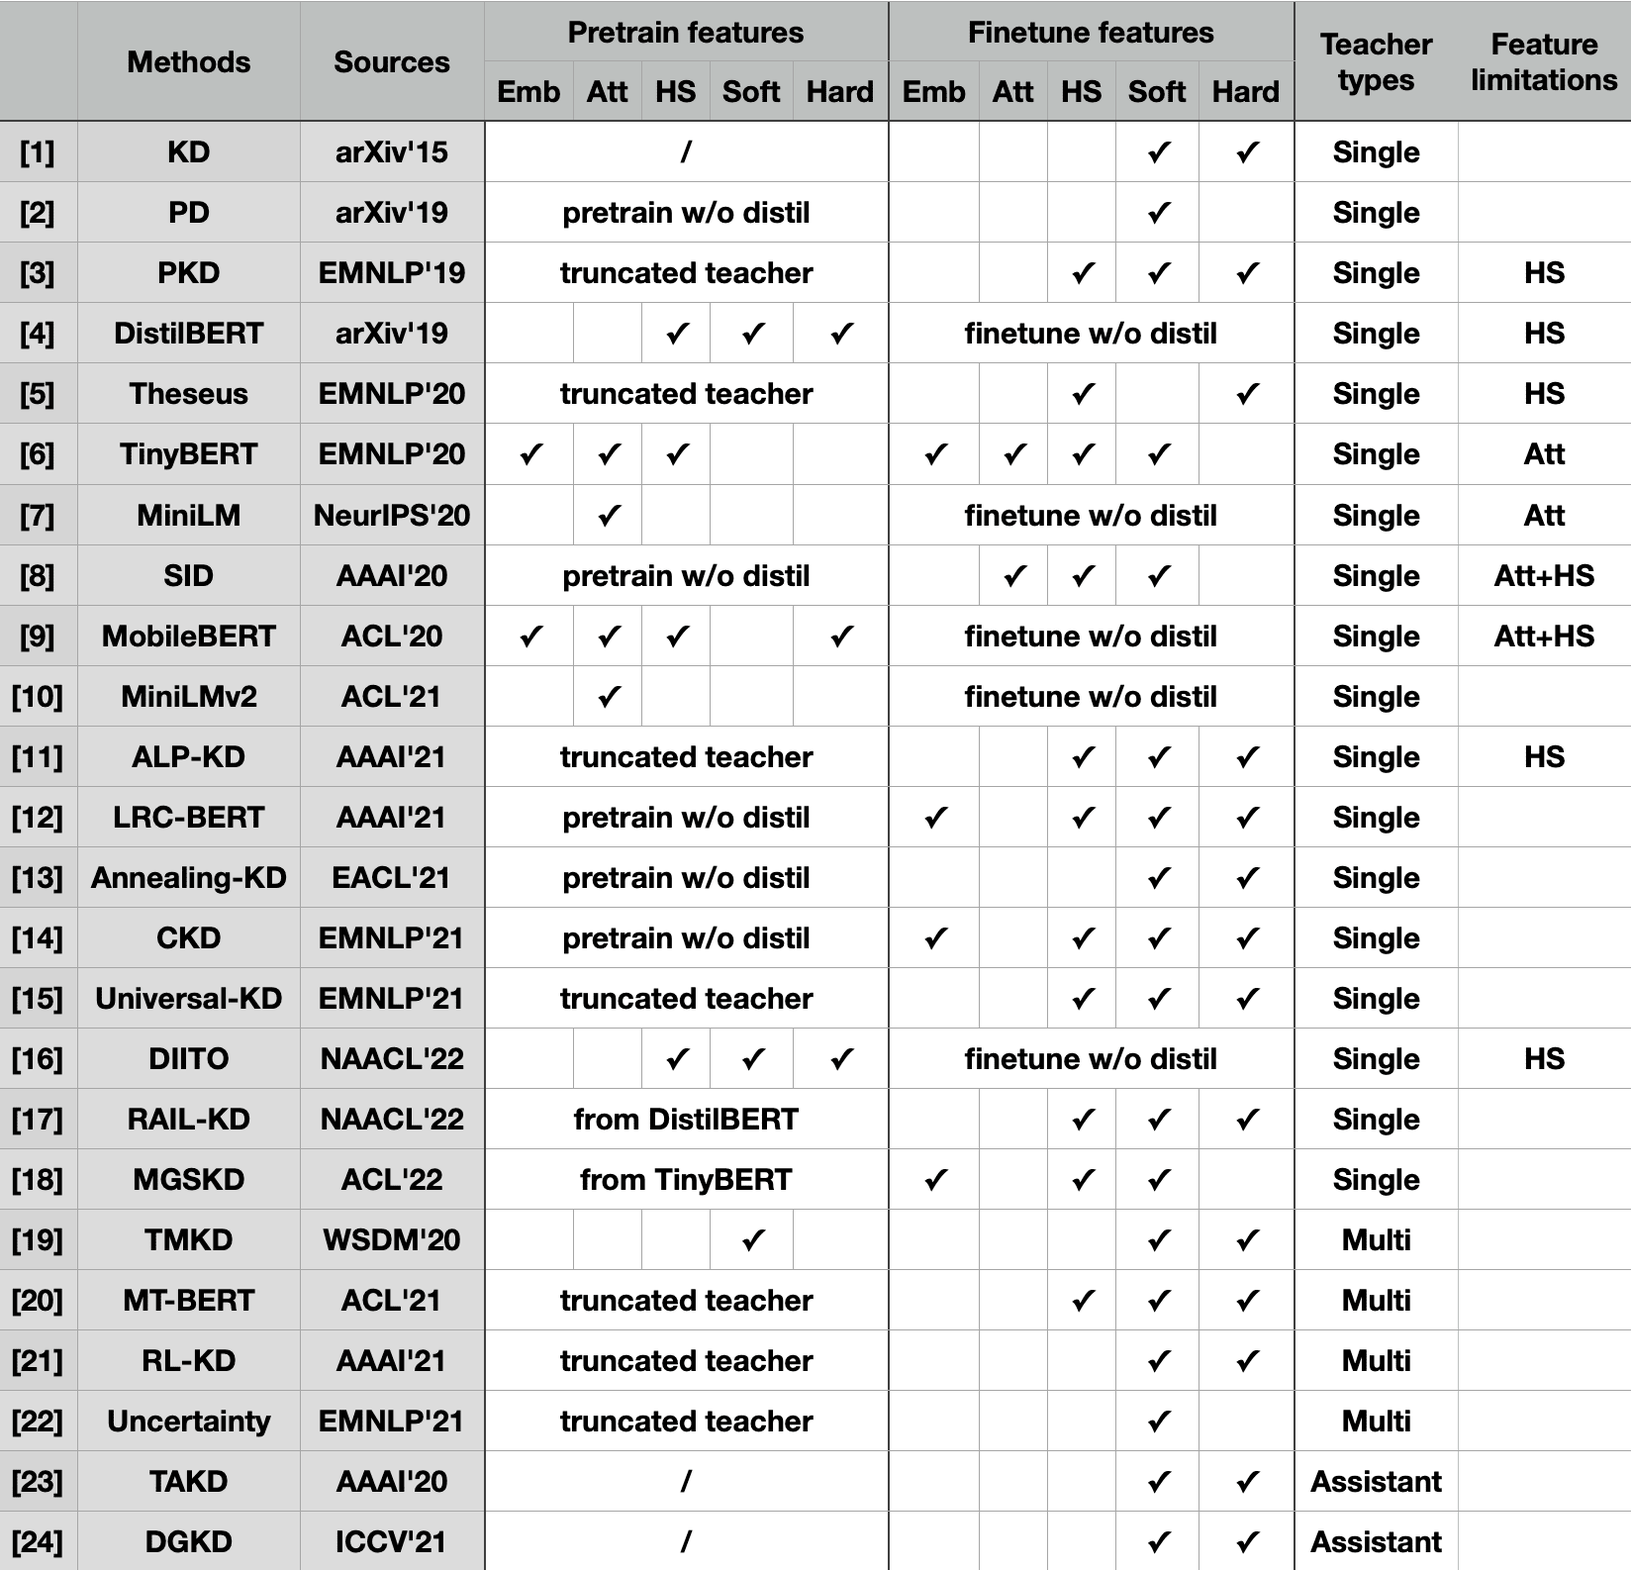
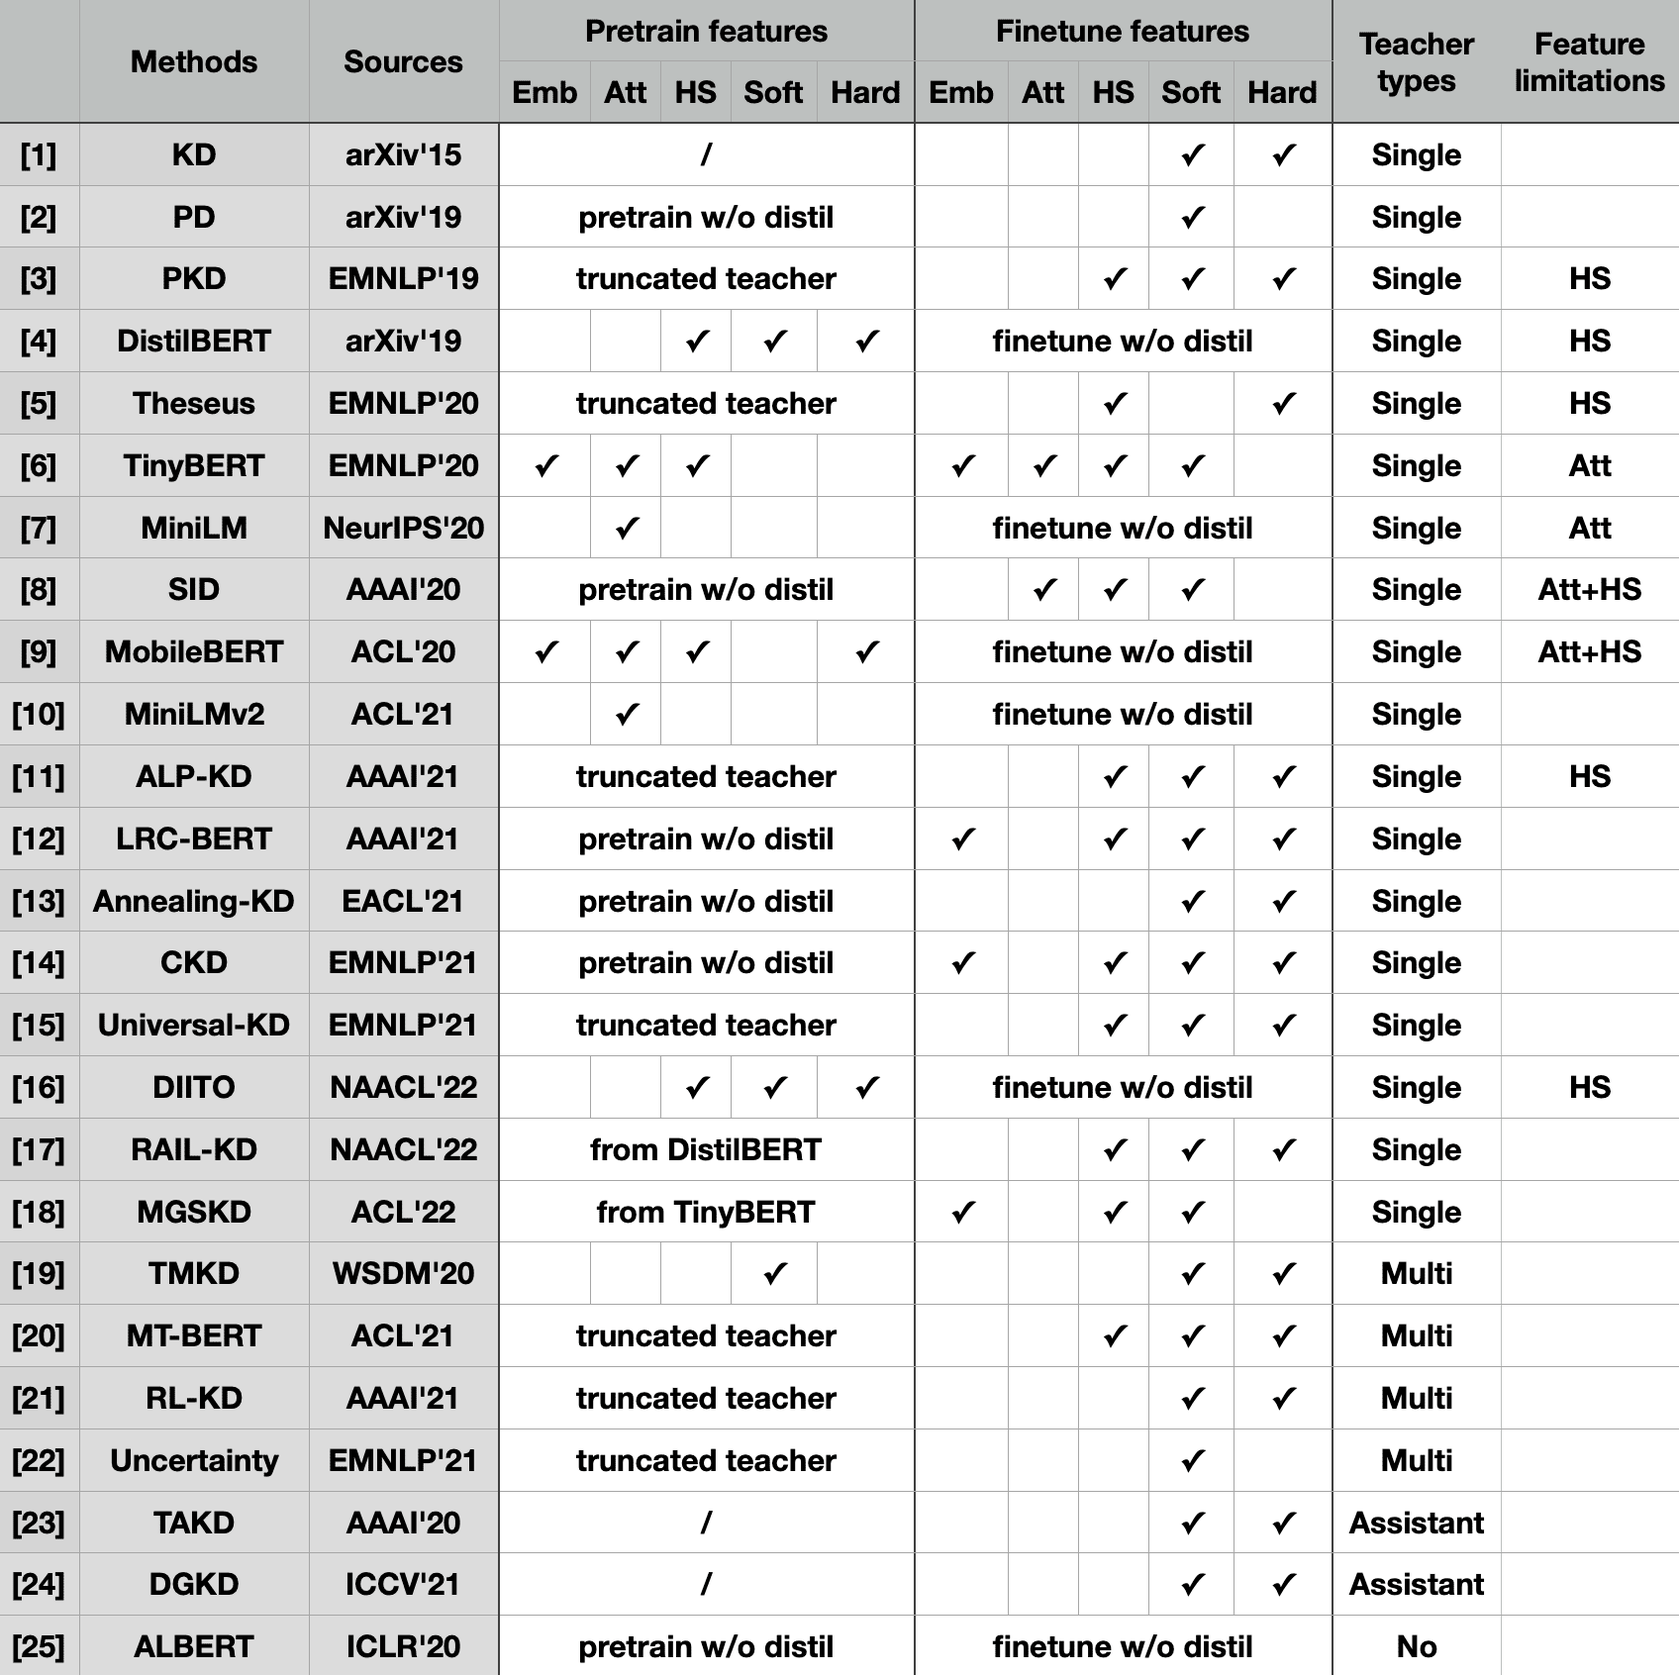
add ALBERT

diff --git a/arguments.py b/arguments.py
@@ -425,16 +425,18 @@ def add_custom_args(parser: argparse.ArgumentParser):
     group.add_argument('--custom_no_summary_writer', action='store_true', help='不保tensorboard,意味着目录只读取')
     group.add_argument('--forward_repeat_num', type=int, default=0, help='forward_step对相同数据多重复运行几次,1就代表数据会过2遍.运行loss结果累加,其他非loss值取第0次结果.evaluate的时候不会重复')
     group.add_argument('--forward_repeat_current_n', type=int, default=0, help='当前是重复的第几次,自动分配不用设置,0表示无重复,1表示重复的第一次')
+    group.add_argument('--ignore_first_backward_gard', action='store_true', help='当forward_repeat_num大于0的时候是否忽略第1次反向传播的梯度,目前和梯度累积不兼容.可用于LRC_BERT的gradient perturbation等.evaluate时不考虑')
     group.add_argument('--ft_final_save', action='store_true', help='是否在微调的最后一轮保存模型,将覆盖best模型latest_checkpointed_iteration')
+    group.add_argument('--save_interval_time', type=float, default=0, help='隔多少小时保存一次模型,大于0有效.可以和其他save参数一起使用')
+    # 注意: 以下可能和教师模型共享参数
     group.add_argument('--map_vocab_size', type=float, default=0, help='映射的词数量,蒸馏或读取模型文件时使用.0-1表示占vacab-size的比例')
     group.add_argument('--unmap_vocab_output', action='store_true', help='在使用map_vocab_size时GLM是否不返回映射后的结果,使用这个需要下游所有任务配合乱序且不全的词表,但可以减少时空消耗.可能导致一些使用logits的蒸馏(例如一些自定义的pre_loss)产生兼容性问题,同时因为维度变化可能导致一些任务的loss产生一点变化')
-    group.add_argument('--ignore_first_backward_gard', action='store_true', help='当forward_repeat_num大于0的时候是否忽略第1次反向传播的梯度,目前和梯度累积不兼容.可用于LRC_BERT的gradient perturbation等.evaluate时不考虑')
     group.add_argument('--inverted_bottleneck_mode', action='store_true', help='可用于MobileBERT方法')
     group.add_argument('--ib_hidden_size', type=int, default=128, help='IB结构中的隐层维度,线性层依然和--hidden-size一致')
     group.add_argument('--ib_ffn_num', type=int, default=4, help='IB结构中的FFN重复次数')
     group.add_argument('--ib_word_emb', type=int, default=0, help='IB结构中的词向量维度,None或0表示不使用.可以独立于inverted_bottleneck_mode使用,不会改变weight维度')
     group.add_argument('--compress_word_emb', type=int, default=0, help='ALBERT词表压缩方法的词向量维度,None或0表示不使用.会改变weight维度')
-    group.add_argument('--save_interval_time', type=float, default=0, help='隔多少小时保存一次模型,大于0有效.可以和其他save参数一起使用')
+    group.add_argument('--cross_layer_parameter_sharing', action='store_true', help='共享所有transformer层参数')
     return parser
 
 

diff --git a/model/modeling_glm.py b/model/modeling_glm.py
@@ -71,6 +71,7 @@ class GLMModel(torch.nn.Module):
                  ib_ffn_num=1,
                  ib_word_emb=None,
                  compress_word_emb=None,
+                 cross_layer_parameter_sharing=False,
                  ):
 
         super(GLMModel, self).__init__()
@@ -86,7 +87,7 @@ class GLMModel(torch.nn.Module):
         init_method = init_method_normal(std=0.02)
 
         if ib_word_emb:
-            self.ib_emb_conv = mpu.ColumnParallelLinear(ib_word_emb * 3, hidden_size,
+            self.ib_emb_mlp = mpu.ColumnParallelLinear(ib_word_emb * 3, hidden_size,
                                                         gather_output=True,
                                                         init_method=init_method)
             self.ib_word_emb = ib_word_emb
@@ -130,7 +131,9 @@ class GLMModel(torch.nn.Module):
                                                        block_position_encoding=block_position_encoding,
                                                        output_dim=ib_hidden_size if ib_mode else None,
                                                        ib_mode=ib_mode,
-                                                       ib_ffn_num=ib_ffn_num)
+                                                       ib_ffn_num=ib_ffn_num,
+                                                       cross_layer_parameter_sharing=cross_layer_parameter_sharing,
+                                                       )
         if spell_length is not None:
             self.prompt_spell = PromptSpell(spell_length, self.hidden_size, spell_func)
 
@@ -155,14 +158,14 @@ class GLMModel(torch.nn.Module):
         words_embeddings = self.word_embeddings(input_ids)
         if hasattr(self, 'compress_emb_mlp'):
             words_embeddings = self.compress_emb_mlp(words_embeddings)
-        if hasattr(self, 'ib_emb_conv') and hasattr(self, 'ib_word_emb'):
-            words_embeddings = words_embeddings[..., :self.ib_word_emb]
+        if hasattr(self, 'ib_emb_mlp') and hasattr(self, 'ib_word_emb'):
+            words_embeddings = words_embeddings[..., :self.ib_word_emb]  # e.g. ib_word_emb=128
             words_embeddings = torch.cat([
                 F.pad(words_embeddings[:, 1:], (0, 0, 0, 1, 0, 0)),
                 words_embeddings,
                 F.pad(words_embeddings[:, :-1], (0, 0, 1, 0, 0, 0))
             ], axis=2)
-            words_embeddings = self.ib_emb_conv(words_embeddings)
+            words_embeddings = self.ib_emb_mlp(words_embeddings)  # e.g. MLP (3*128 → 1024)
         hook_add(hook, inter_vars, 'words_embeddings', words_embeddings)
         hook_add(hook, inter_vars, 'position_ids', position_ids)
         embeddings = words_embeddings

diff --git a/distill/prepare.py b/distill/prepare.py
@@ -61,6 +61,7 @@ def get_args():
     py_parser.add_argument('--teacher_ib_word_emb', type=int, default=0)
     py_parser.add_argument('--teacher_compress_word_emb', type=int, default=0)
     py_parser.add_argument('--teacher_map_vocab_size', type=float, default=0)
+    py_parser.add_argument('--teacher_cross_layer_parameter_sharing', action='store_true')
 
     # tinybert
     py_parser.add_argument('--tinybert_inter_final', action='store_true', help="只使用最后隐层做损失")
@@ -257,7 +258,6 @@ def get_teacher_model(args, **kwargs):
         'map_vocab_size',
     ]
     original_vars = [getattr(args, i) for i in transfer_vars]
-    fp16 = args.fp16
     # 统一参数加载
     if args.mt_load_from_s:
         load_dir, tag, release, success = get_checkpoint_iteration(args.mt_load_from_s)
@@ -265,9 +265,12 @@ def get_teacher_model(args, **kwargs):
         sd = torch.load(checkpoint_name, map_location='cpu')['module']
     else:
         sd = {}
-    # 替换
-    args.fp16 = args.teacher_fp16
-    map_vocab_size, args.map_vocab_size = args.map_vocab_size, None
+    # 非mt参数替换
+    fp16, args.fp16 = args.fp16, args.teacher_fp16
+    unmap_vocab_output, args.unmap_vocab_output = args.unmap_vocab_output, False  # 教师不兼容该选项
+    inverted_bottleneck_mode, args.inverted_bottleneck_mode = args.inverted_bottleneck_mode, args.teacher_inverted_bottleneck_mode
+    cross_layer_parameter_sharing, args.cross_layer_parameter_sharing = args.cross_layer_parameter_sharing, args.teacher_cross_layer_parameter_sharing
+    # mt参数替换
     teacher_models = []
     if args.mt_num_attention_heads:
         paras = zip(*[getattr(args, 'mt_' + i).split(':') for i in transfer_vars])
@@ -297,7 +300,9 @@ def get_teacher_model(args, **kwargs):
     for v, name in zip(original_vars, transfer_vars):
         setattr(args, name, v)
     args.fp16 = fp16
-    args.map_vocab_size = map_vocab_size
+    args.unmap_vocab_output = unmap_vocab_output
+    args.inverted_bottleneck_mode = inverted_bottleneck_mode
+    args.cross_layer_parameter_sharing = cross_layer_parameter_sharing
     return teacher_models
 
 

diff --git a/mpu/transformer.py b/mpu/transformer.py
@@ -717,6 +717,7 @@ class GPT2ParallelTransformer(torch.nn.Module):
                  output_dim=None,
                  ib_mode=False,
                  ib_ffn_num=1,
+                 cross_layer_parameter_sharing=False,
                  ):
         super(GPT2ParallelTransformer, self).__init__()
         self.hidden_size = hidden_size
@@ -726,6 +727,8 @@ class GPT2ParallelTransformer(torch.nn.Module):
         self.max_memory_length = max_memory_length
         self.performer = performer
         self.use_decoder_layer = use_decoder_layer
+        self.num_layers = num_layers
+        self.cross_layer_parameter_sharing = cross_layer_parameter_sharing
         assert not (performer and relative_encoding)
 
         output_layer_init_method = None
@@ -795,7 +798,7 @@ class GPT2ParallelTransformer(torch.nn.Module):
 
         # Transformer layers.
         self.layers = torch.nn.ModuleList(
-            [get_layer() for _ in range(num_layers)])
+            [get_layer() for _ in range(1 if cross_layer_parameter_sharing else num_layers)])
 
         # Final layer norm before output.
         self.final_layernorm = LayerNorm(hidden_size, eps=layernorm_epsilon)
@@ -870,10 +873,9 @@ class GPT2ParallelTransformer(torch.nn.Module):
             mem_layers = [check_detach(hidden_states)]
         else:
             mem_layers = []
+        self_layers = [self.layers[0]] * self.num_layers if self.cross_layer_parameter_sharing else self.layers
         if hook_op and 'self_layers' in hook_op and callable(hook_op['self_layers']):
-            self_layers = hook_op['self_layers'](self_layers=self.layers)
-        else:
-            self_layers = self.layers
+            self_layers = hook_op['self_layers'](self_layers=self_layers)
             
         def custom(start, end, hook=None, hook_op=None):
             def custom_forward(*inputs):

diff --git a/train_utils.py b/train_utils.py
@@ -116,6 +116,7 @@ def get_model(args, model_type=None, multi_token=True, num_labels=None, spell_le
                          ib_ffn_num=args.ib_ffn_num,
                          ib_word_emb=args.ib_word_emb,
                          compress_word_emb=args.compress_word_emb,
+                         cross_layer_parameter_sharing=args.cross_layer_parameter_sharing,
                          )
         if args.freeze_transformer:
             model.freeze_transformer(tune_prefix_layers=args.tune_prefix_layers)

diff --git a/README.md b/README.md
@@ -7,26 +7,26 @@ It provides a flexible architecture to efficiently implement various language mo
 We have introduced techniques such as model parallelism ([Megatron-LM](https://github.com/NVIDIA/Megatron-LM)) and ZeRO ([DeepSpeed](https://github.com/microsoft/DeepSpeed)) in the toolkit to make it efficient for distilling very large models.
 
 ## Distillation Methods
-We briefly summarize here the 24 model distillation methods that have been implemented by the toolkit.
+We briefly summarize here the 24 model distillation methods and 1 model compression method (ALBERT) that have been implemented by the toolkit.
 
 <img src="distill/img/methods.png" width = "500" alt="" align=center />
 
 ```
 [1] Geoffrey E. Hinton, Oriol Vinyals, Jeffrey Dean. Distilling the Knowledge in a Neural Network[J]. CoRR, 2015, abs/1503.02531.
-[2] Iulia Turc, Ming-Wei Chang, Kenton Lee, Kristina Toutanova. Well-Read Students Learn Better - The Impact of Student Initialization on Knowledge Distillation[J]. CoRR, 2019, abs/1908.08962.
+[2] Iulia Turc, Ming-Wei Chang, Kenton Lee, Kristina Toutanova. Well-Read Students Learn Better: The Impact of Student Initialization on Knowledge Distillation[J]. CoRR, 2019, abs/1908.08962.
 [3] Siqi Sun, Yu Cheng. Zhe Gan, Jingjing Liu. Patient Knowledge Distillation for BERT Model Compression[C]// EMNLP. 2019: 4322-4331.
-[4] Victor Sanh, Lysandre Debut, Julien Chaumond, Thomas Wolf. DistilBERT, a distilled version of BERT - smaller, faster, cheaper and lighter[J]. CoRR, 2019, abs/1910.01108.
-[5] Canwen Xu, Wangchunshu Zhou, Tao Ge, Furu Wei, Ming Zhou. BERT-of-Theseus - Compressing BERT by Progressive Module Replacing[C]// EMNLP. 2020: 7859-7869.
-[6] Xiaoqi Jiao, Yichun Yin, Lifeng Shang, Xin Jiang. Xiao Chen, Linlin Li, Fang Wang. Qun Liu. TinyBERT - Distilling BERT for Natural Language Understanding[C]// EMNLP. 2020: 4163-4174.
-[7] Wenhui Wang, Furu Wei, Li Dong. Hangbo Bao, Nan Yang. Ming Zhou. MiniLM - Deep Self-Attention Distillation for Task-Agnostic Compression of Pre-Trained Transformers[C]// NeurIPS. 2020.
+[4] Victor Sanh, Lysandre Debut, Julien Chaumond, Thomas Wolf. DistilBERT, a distilled version of BERT: smaller, faster, cheaper and lighter[J]. CoRR, 2019, abs/1910.01108.
+[5] Canwen Xu, Wangchunshu Zhou, Tao Ge, Furu Wei, Ming Zhou. BERT-of-Theseus: Compressing BERT by Progressive Module Replacing[C]// EMNLP. 2020: 7859-7869.
+[6] Xiaoqi Jiao, Yichun Yin, Lifeng Shang, Xin Jiang. Xiao Chen, Linlin Li, Fang Wang. Qun Liu. TinyBERT: Distilling BERT for Natural Language Understanding[C]// EMNLP. 2020: 4163-4174.
+[7] Wenhui Wang, Furu Wei, Li Dong. Hangbo Bao, Nan Yang. Ming Zhou. MiniLM: Deep Self-Attention Distillation for Task-Agnostic Compression of Pre-Trained Transformers[C]// NeurIPS. 2020.
 [8] Gustavo Aguilar, Yuan Ling, Yu Zhang, Benjamin Yao, Xing Fan, Chenlei Guo. Knowledge Distillation from Internal Representations[C]// AAAI. 2020: 7350-7357.
-[9] Zhiqing Sun, Hongkun Yu, Xiaodan Song, Renjie Liu, Yiming Yang, Denny Zhou. MobileBERT - a Compact Task-Agnostic BERT for Resource-Limited Devices[C]// ACL. 2020: 2158-2170.
-[10] Wenhui Wang, Hangbo Bao, Shaohan Huang, Li Dong. Furu Wei. MiniLMv2 - Multi-Head Self-Attention Relation Distillation for Compressing Pretrained Transformers[C]// ACL. 2021: 2140-2151.
-[11] Peyman Passban, Yimeng Wu, Mehdi Rezagholizadeh, Qun Liu. ALP-KD - Attention-Based Layer Projection for Knowledge Distillation[C]// AAAI. 2021: 13657-13665.
-[12] Hao Fu, Shaojun Zhou, Qihong Yang, Junjie Tang, Guiquan Liu, Kaikui Liu, Xiaolong Li. LRC-BERT - Latent-representation Contrastive Knowledge Distillation for Natural Language Understanding[C]// AAAI. 2021: 12830-12838.
+[9] Zhiqing Sun, Hongkun Yu, Xiaodan Song, Renjie Liu, Yiming Yang, Denny Zhou. MobileBERT: a Compact Task-Agnostic BERT for Resource-Limited Devices[C]// ACL. 2020: 2158-2170.
+[10] Wenhui Wang, Hangbo Bao, Shaohan Huang, Li Dong. Furu Wei. MiniLMv2: Multi-Head Self-Attention Relation Distillation for Compressing Pretrained Transformers[C]// ACL. 2021: 2140-2151.
+[11] Peyman Passban, Yimeng Wu, Mehdi Rezagholizadeh, Qun Liu. ALP-KD: Attention-Based Layer Projection for Knowledge Distillation[C]// AAAI. 2021: 13657-13665.
+[12] Hao Fu, Shaojun Zhou, Qihong Yang, Junjie Tang, Guiquan Liu, Kaikui Liu, Xiaolong Li. LRC-BERT: Latent-representation Contrastive Knowledge Distillation for Natural Language Understanding[C]// AAAI. 2021: 12830-12838.
 [13] Aref Jafari, Mehdi Rezagholizadeh, Pranav Sharma, Ali Ghodsi. Annealing Knowledge Distillation[C]// EACL. 2021.
 [14] Geondo Park, Gyeongman Kim, Eunho Yang. Distilling Linguistic Context for Language Model Compression[C]// EMNLP. 2021: 364-378.
-[15] Yimeng Wu, Mehdi Rezagholizadeh, Abbas Ghaddar, Md. Akmal Haidar, Ali Ghodsi. Universal-KD - Attention-based Output-Grounded Intermediate Layer Knowledge Distillation[C]// EMNLP. 2021: 7649-7661.
+[15] Yimeng Wu, Mehdi Rezagholizadeh, Abbas Ghaddar, Md. Akmal Haidar, Ali Ghodsi. Universal-KD: Attention-based Output-Grounded Intermediate Layer Knowledge Distillation[C]// EMNLP. 2021: 7649-7661.
 [16] Zhengxuan Wu, Atticus Geiger, Joshua Rozner, Elisa Kreiss, Hanson Lu, Thomas Icard, Christopher Potts, Noah D. Goodman. Causal Distillation for Language Models[C]// NAACL. 2022: 4288-4295.
 [17] Md. Akmal Haidar, Nithin Anchuri, Mehdi Rezagholizadeh, Abbas Ghaddar, Philippe Langlais, Pascal Poupart. RAIL-KD: RAndom Intermediate Layer Mapping for Knowledge Distillation[C]// NAACL. 2022: 1389-1400.
 [18] Chang Liu, Chongyang Tao, Jiazhan Feng, Dongyan Zhao. Multi-Granularity Structural Knowledge Distillation for Language Model Compression[C]// ACL. 2022: 1001-1011.
@@ -36,6 +36,7 @@ We briefly summarize here the 24 model distillation methods that have been imple
 [22] Lei Li, Yankai Lin, Shuhuai Ren, Peng Li, Jie Zhou, Xu Sun. Dynamic Knowledge Distillation for Pre-trained Language Models[C]// EMNLP. 2021: 379-389.
 [23] Seyed-Iman Mirzadeh, Mehrdad Farajtabar, Ang Li, Nir Levine, Akihiro Matsukawa, Hassan Ghasemzadeh. Improved Knowledge Distillation via Teacher Assistant[C]// AAAI. 2020: 5191-5198.
 [24] Wonchul Son, Jaemin Na, Junyong Choi, Wonjun Hwang. Densely Guided Knowledge Distillation using Multiple Teacher Assistants[C]// ICCV. 2021: 9375-9384.
+[25] Zhenzhong Lan, Mingda Chen, Sebastian Goodman, Kevin Gimpel, Piyush Sharma, Radu Soricut. ALBERT: A Lite BERT for Self-supervised Learning of Language Representations[C]// ICLR. 2020.
 ```
 
 ## Results
@@ -154,6 +155,9 @@ Then we can build commands of different methods.
 ### RL-KD
 1. [Prefix-finetune] [Prefix-multi-teacher] --student_model=kd --distill_ft_soft --distill_temperature=10 --student_truncate_tn=0 --multi_teacher_model=rl_kd --rl_kd_only_mask_pad --rl_kd_only_avg --rl_kd_alpha=0.5
 2. [Prefix-finetune] [Prefix-multi-teacher](One more base teacher) --student_model=kd --distill_ft_soft --distill_temperature=10 --multi_teacher_model=rl_kd --rl_kd_only_mask_pad --rl_kd_reward=1 --rl_kd_semantic_model=0 --mt_has_loss --rl_kd_alpha=0.5
+### ALBERT
+1. [Prefix-pretrain] --compress_word_emb=128 --cross_layer_parameter_sharing
+2. [Prefix-finetune] --compress_word_emb=128 --cross_layer_parameter_sharing
 ### Other
 - TAKD simply replaces [Prefix-single-teacher] with the student from the previous training using any of the single-teacher methods.
 - DGKD just needs to replace [Prefix-multi-teacher] with all the teachers and students previously trained using any of the multi-teacher methods.
